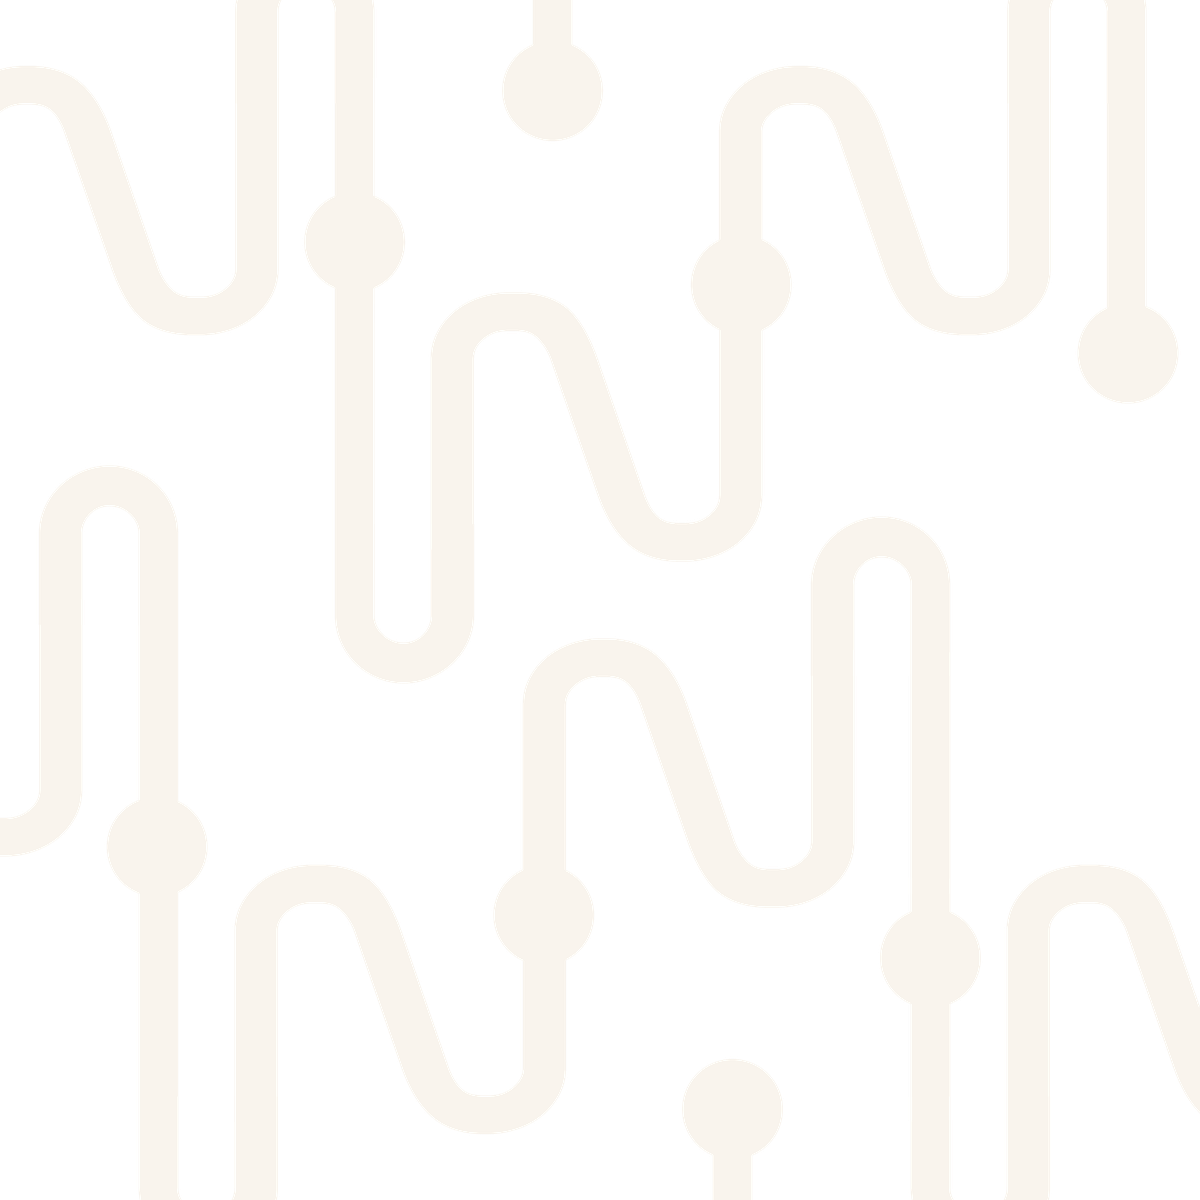
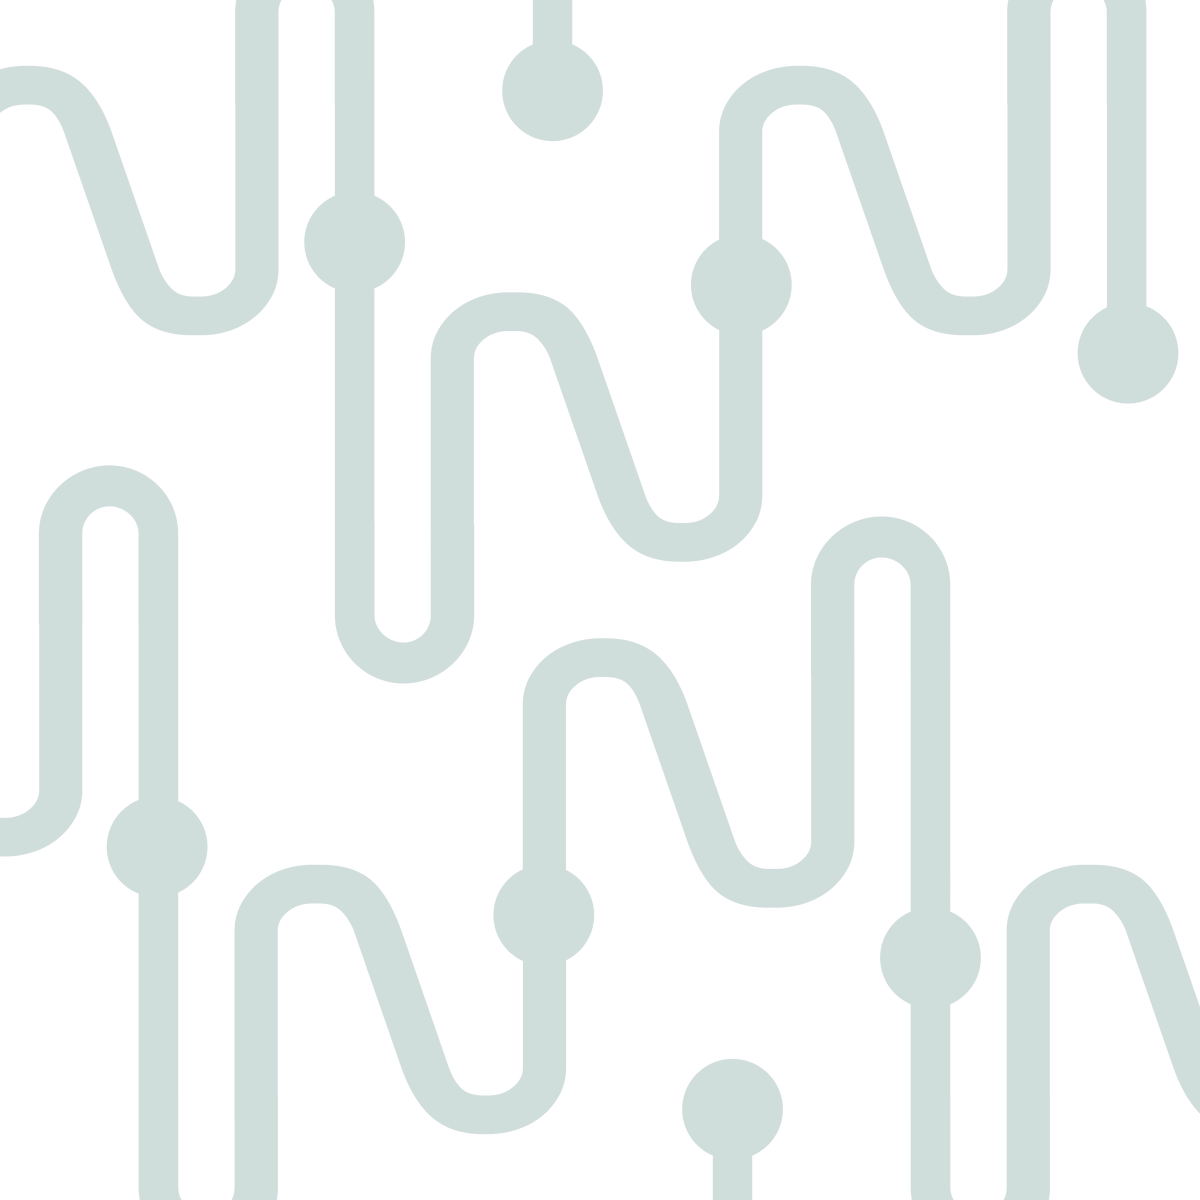
Make branding accents more visible

diff --git a/styles.css b/styles.css
@@ -118,9 +118,9 @@ nav a:hover,
   position: absolute;
   inset: 0;
   z-index: 0;
-  background: url("assets/branding/interdato-pattern.png") right -8vw top -16vw / min(86vw, 880px) auto no-repeat;
+  background: url("assets/branding/interdato-pattern.png") right -10vw top -12vw / min(94vw, 960px) auto no-repeat;
   content: "";
-  opacity: 0.32;
+  opacity: 0.9;
   pointer-events: none;
 }
 
@@ -225,14 +225,14 @@ h3 {
 
 .impact-panel::after {
   position: absolute;
-  top: -54px;
-  right: -48px;
+  top: -46px;
+  right: -42px;
   z-index: 0;
-  width: 190px;
-  height: 190px;
+  width: 210px;
+  height: 210px;
   background: url("assets/branding/interdato-seal.png") center / contain no-repeat;
   content: "";
-  opacity: 0.11;
+  opacity: 0.2;
   pointer-events: none;
 }
 
@@ -652,13 +652,13 @@ h3 {
 
 .whitepaper-section::before {
   position: absolute;
-  inset: auto -8vw -28vw auto;
+  inset: auto -7vw -24vw auto;
   z-index: 0;
-  width: min(78vw, 760px);
+  width: min(82vw, 820px);
   aspect-ratio: 1;
   background: url("assets/branding/interdato-pattern.png") center / contain no-repeat;
   content: "";
-  opacity: 0.22;
+  opacity: 0.82;
   pointer-events: none;
 }
 
@@ -805,11 +805,11 @@ h3 {
   top: 50%;
   right: clamp(18px, 5vw, 56px);
   z-index: 0;
-  width: clamp(120px, 18vw, 210px);
+  width: clamp(140px, 19vw, 230px);
   aspect-ratio: 1;
   background: url("assets/branding/interdato-seal.png") center / contain no-repeat;
   content: "";
-  opacity: 0.12;
+  opacity: 0.18;
   pointer-events: none;
   transform: translateY(-50%) rotate(-8deg);
 }